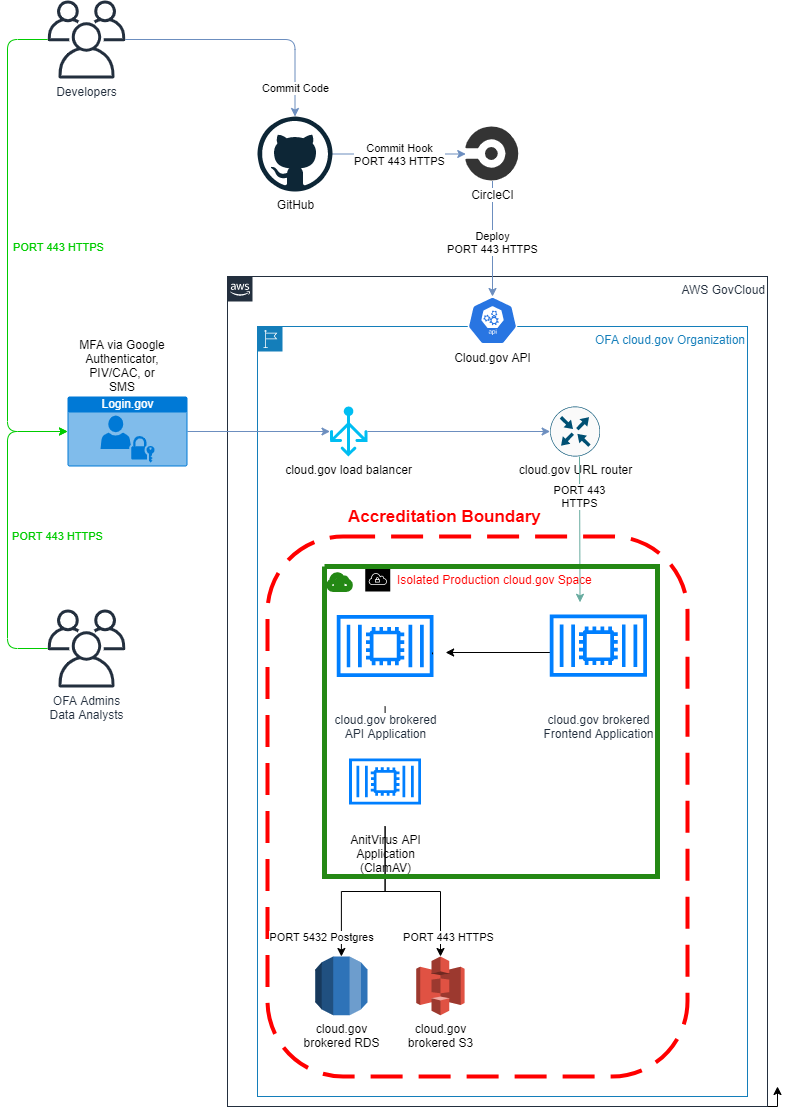
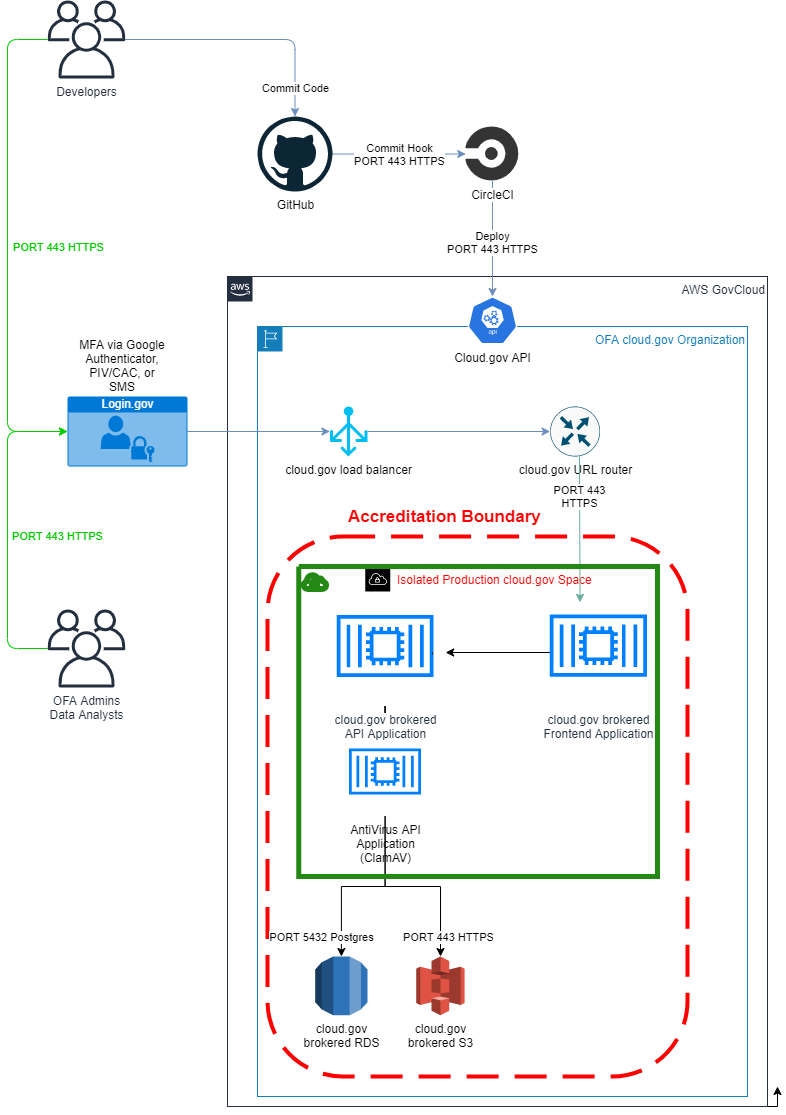
fixed spelling of antivirus in bd

Changed region(s): [[0.3664, 0.4879, 0.5496, 0.7928]]

diff --git a/docs/Security-Compliance/boundary-diagram.md b/docs/Security-Compliance/boundary-diagram.md
@@ -26,6 +26,6 @@ Application configuration will be handled by environment variables stored secure
 
 ## Updating
 
-- Download latest version pdf diagram [[draw.io](diagram.drawio)
+- Download latest version pdf diagram [draw.io](diagram.drawio)
 - Edit this diagram with [draw.io](https://app.diagrams.net/)
 - Update the image and point download link to correct file
